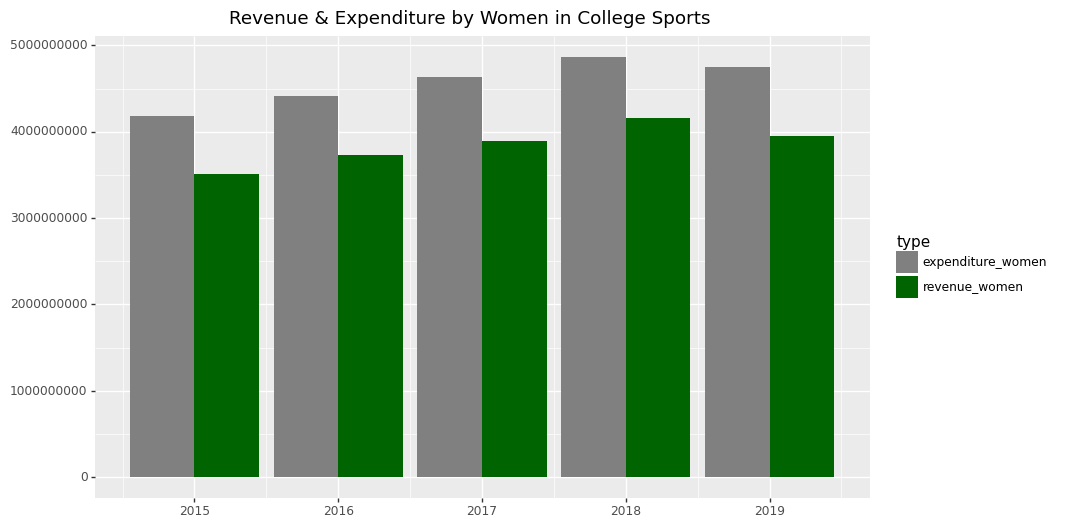
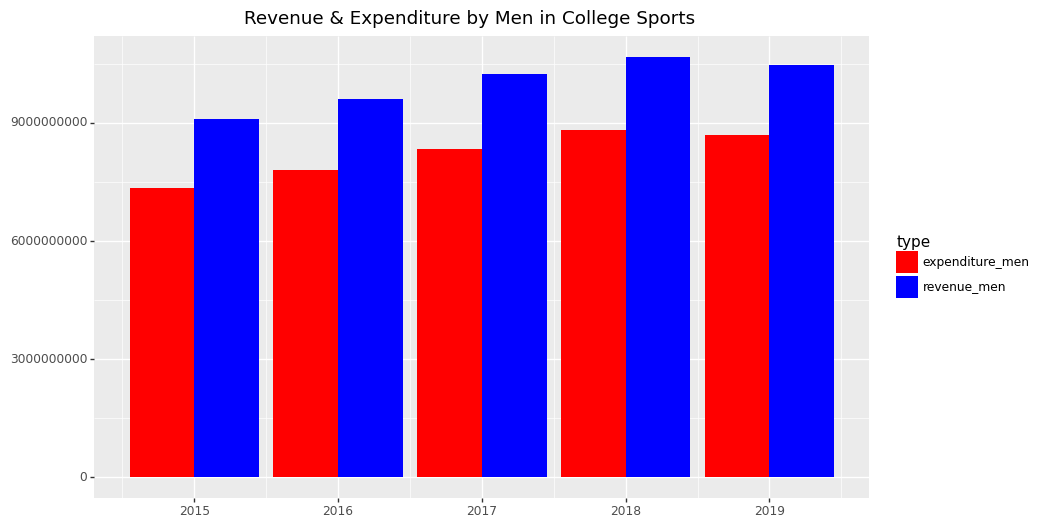
trying patchworklib

diff --git a/2022/W13_collegiateSports/code.py b/2022/W13_collegiateSports/code.py
@@ -10,6 +10,7 @@ import pandas as pd
 import janitor as jr
 import valdezds as vds
 import plotnine as p9
+import patchworklib as pw
 
 vds.getwd() # Confirm working directory
 
@@ -132,6 +133,8 @@ p1 = (
     )
 )
 
+p1.save("2022/W13_collegiateSports/plot.png")
+
 p2 = (
     p9.ggplot(
         mapping=p9.aes(x="year", y="value", fill="type"),
@@ -156,13 +159,22 @@ p2 = (
     )
 )
 
-# Find patchowrk equivalent
+p2.save("2022/W13_collegiateSports/plot2.png")
+
+# Two plots, same figure
+g1 = pw.load_ggplot(p1, figsize=(7,2))
+g2 = pw.load_ggplot(p2, figsize=(7,2))
+
+g12 = g1 / g2
+
+# Error verify patchworklib
 
 # ============================================================================ #
 # 3.2 Tableau
 # ============================================================================ #
 
-
+# Link
+#
 
 # ============================================================================ #
 # END
